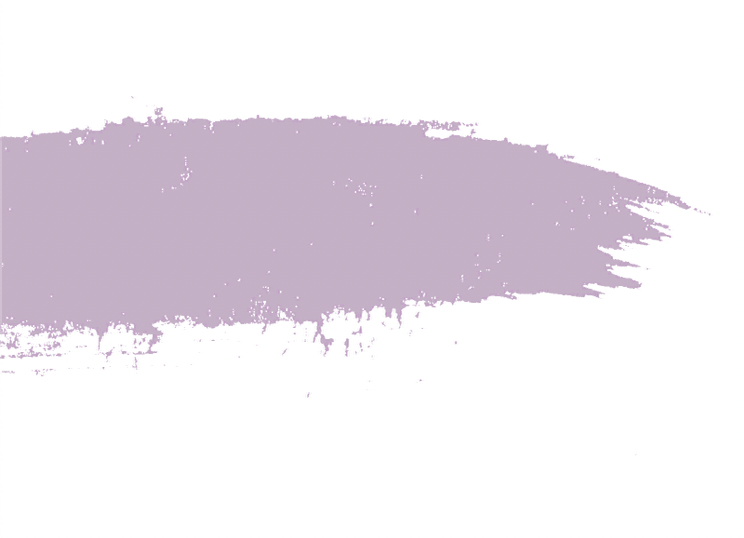
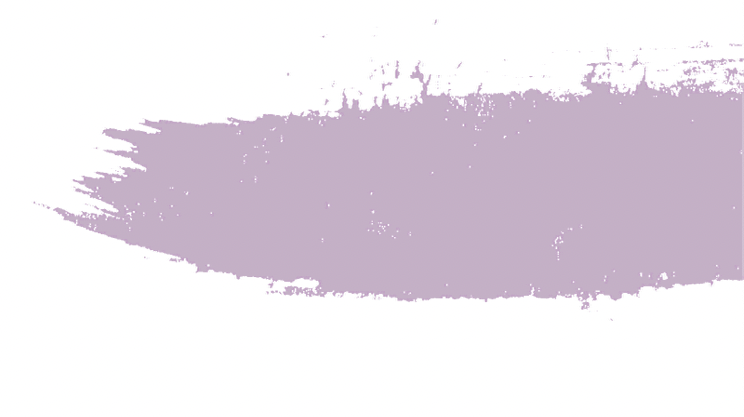
Update

Changed region(s): [[0.0, 0.0935, 1.0, 0.7482]]

diff --git a/index.html b/index.html
@@ -14,8 +14,8 @@
         </li>
         <li><a href="#ambito">Ambito</a></li>
         <li><a href="#studio">Lo studio</a></li>
-        <li>Servizi</li>
-        <li>Chi sono</li>
+        <!-- <li>Servizi</li> -->
+        <li href="#contatto">Contatto</li>
       </ul>
     </nav>
     
@@ -23,7 +23,8 @@
     <section class="neck d-flex">
       <div class="d-flex w-1200">
         <div class="text-wrapper">
-          <h1>Dott.ssa Marilena Giordano <small>Psicologa Clinica</small></h1>
+          <h1><small>Dott.ssa</small><br>Marilena&nbsp;Giordano</h1>
+          <h3>Psicologa Clinica</h3>
           <p>Gli incontri offrono un’occasione per favorire il raggiungimento di uno stato di benessere, di accettazione e valorizzazione profonda e consapevole di sè, sostenendo il senso di autostima e autoefficacia e implementando le proprie capacità di adattamento.</p>
           <div class="btn-wrapper">
             <a href="#">Click me</a>
@@ -34,13 +35,13 @@
     
     <!-- Quando -->
     <section class="row quando w-870">
-      <h2>Quando ci si rivolge allo psicologo?</h2>
       <div class="row d-flex">
         <div class="col">
           <img src="assets/images/image-poltrona.jpeg">
         </div>
         <div class="col d-flexx">
           <div class="text-wrapper">
+            <h2>Quando ci si rivolge allo psicologo?</h2>
             <p>Le motivazioni sono le più svariate. Quando si sente il bisogno di migliorare la propria vita, le relazioni con gli altri, quando si sente il bisogno di essere guidati o supportati nel raggiungere un obiettivo importante, quando si ha bisogno di imparare a gestire lo stress e in generale in tutte quelle situazioni nelle quali viviamo momenti di difficoltà che ci creano sofferenza facendoci sentire “bloccati”, “in crisi”.</p>
           </div>
         </div>
@@ -48,20 +49,22 @@
     </section>
     
     <!-- Quando -->
-    <section class="row ambito-intervento d-flex">
-      <div class="col bg-intervento">
-        
-      </div>
-      <div class="col d-flex">
-        <div class="text-wrapper">
-          <h2 id="ambito">Ambito di intervento</h2>
-          <ul>
-            <li>Depressione</li>
-            <li>Stress</li>
-            <li>Difficoltà relazionali</li>
-            <li>Assistenza con la propria identita' di genere</li>
-            <li>Assistenza per situazioni difficili (lutto, separazione, divorzio, blocco)</li>
-          </ul>
+    <section class="ambito-intervento">
+      <div class="row w-1200 d-flex">
+        <div class="col d-flex">
+          <div class="text-wrapper">
+            <h2 id="ambito">Ambito di intervento</h2>
+            <ul>
+              <li>Depressione</li>
+              <li>Stress</li>
+              <li>Difficoltà relazionali</li>
+              <li>Assistenza con la propria identita' di genere</li>
+              <li>Assistenza per situazioni difficili (lutto, separazione, divorzio, blocco)</li>
+            </ul>
+          </div>
+        </div>
+        <div class="col bg-intervento">
+          
         </div>
       </div>
     </section>
@@ -70,14 +73,13 @@
     <section class="lo-studio w-1200">
       <div class="text-wrapper">
         <h2 id="studio">Lo studio<h2>
-        <p>Uno spazio di confort pulito per rilassarsi con uno stesso</p>
+        <p>Ricevo nel mio studio a Bologna, uno spazio intimo ed accogliente dove sentirti a tuo agio.</p>
       </div>
       <div class="img-wrapper d-flex">
         <img src="assets/images/studio-1.jpeg">
-        <img src="assets/images/studio-1.jpeg">
-        <img src="assets/images/studio-1.jpeg">
-        <img src="assets/images/studio-1.jpeg">
-        <img src="assets/images/studio-1.jpeg">
+        <img src="assets/images/studio-2.jpeg">
+        <img src="assets/images/studio-3.jpeg">
+        <img src="assets/images/studio-4.jpeg">
       </div>
       
       <address>
@@ -87,15 +89,13 @@
     
     <!-- Blockquote -->
     <section class="row blockquote">
-      <div class="d-flex w-1200">
-        <div class="col d-flex">
-          <div class="img-shadow">
-            <img src="assets/images/image-blockquote.jpeg">
-          </div>
+      <div class="d-flex w-1200 text-wrapper">
+        <div class="col d-flex col-img">
+          <img src="assets/images/image-blockquote.jpeg">
         </div>
         <div class="col">
           <blockquote cite="http://">
-            <sub>“</sub>Qualsiasi impressione, anche la più insignificante, lascia una traccia, che può rivivere.
+            <sub>“</sub>Qualsiasi impressione, anche la più insignificante, lascia una traccia, che può rivivere.<sub>”</sub>
             <cite title="Source Title">Sigmund Freud</cite>
           </blockquote>
         </div>
@@ -110,9 +110,8 @@
           <ul>
             <li><span class="bold">Marilena Giordano</span> – Psicologa clinica</li>
             <li>Studio in via del Pratello 97, 40122 Bologna</li>
-            <li>Telefono/WhatsApp: <span class="bold">Marilena Giordano</span></li>
+            <li>Telefono/WhatsApp: P.IVA 04035521204</li>
             <!-- <li>eMail: <span class="bold">marilenagiordano.psicologia@gmail.com</span></li> -->
-            <li>P.IVA 04035521204</li>
           </ul>
           <p class="colloquo-su-appuntamento">Colloquio su appuntamento.</p>
         </div>

diff --git a/theme.css b/theme.css
@@ -129,15 +129,17 @@ section.neck .text-wrapper a {
   display: inline-block;
 }
 
-section.quando {
-  flex-direction: column-reverse;
+section.quando img {
+  /* flex-direction: column-reverse; */
+  width: 70%;
+  margin: 0 auto;
+  display: block;
 }
 
 section.ambito-intervento {
   background: url('assets/images/background-line-pink.png');
   background-repeat: no-repeat;
-  background-position: -30% center;
-  background-size: 50%; 
+  background-position: right center;
 }
 
 section.lo-studio .text-wrapper {
@@ -172,14 +174,14 @@ section.blockquote {
   background-color: rgba(219, 194, 228, 0.59);
 }
 
-section.blockquote .img-shadow {
+section.blockquote .col-img {
+  width: 100%;
   text-align: center;
 }
 
 section.blockquote img {
   width: 60%;
-  margin-top: -64px;
-  margin-bottom: -64px;
+  margin: -2rem auto -2rem auto;
   border: 8px solid rgb(165, 133, 179);
 }
 
@@ -187,13 +189,17 @@ section.blockquote blockquote {
   font-size: 2rem;
   text-align: center;
   color: rgb(112, 87, 124);
-  margin: 64px 0;
+  margin: 4rem 0;
+  line-height: 2.6rem;
 }
 
 section.blockquote blockquote sub {
-  display: block;
   font-size: 4rem;
-  margin-bottom: -30px;
+}
+
+section.blockquote .text-wrapper {
+  display: flex;
+  align-items: center;
 }
 
 section.blockquote blockquote cite {
@@ -268,6 +274,7 @@ footer ul li {
   height: fit-content;
 }
 
+section > h2,
 .text-wrapper h1,
 .text-wrapper h2,
 .text-wrapper h3.h2 {
